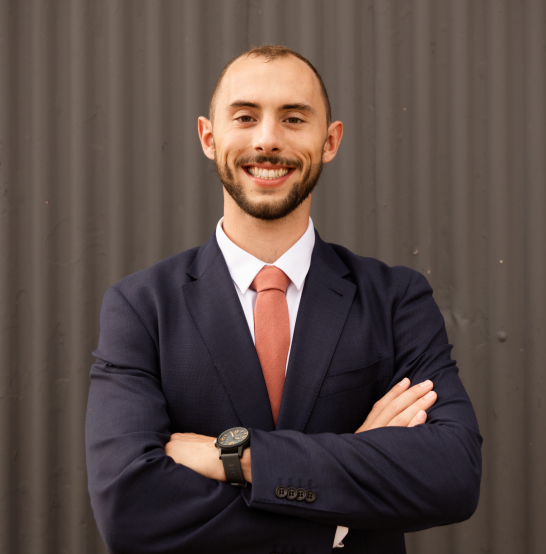
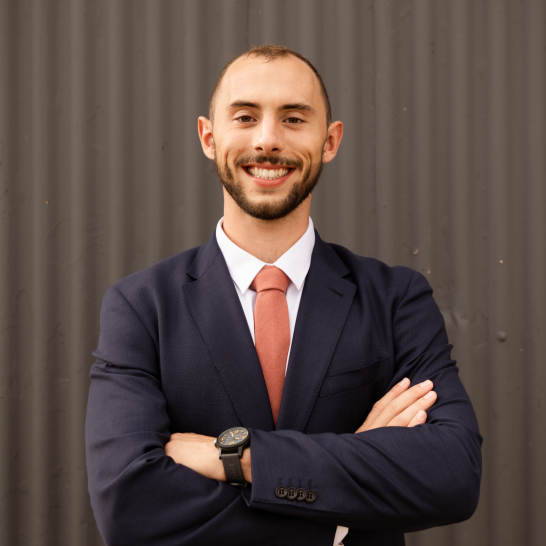
clean homepage

diff --git a/home.css b/home.css
@@ -6,111 +6,34 @@
     --accent-one: #767e2b;
     --neutral: #ede7d2;
     --dark-neutral: #06213e;
-    /* --main-one: #f9ad3e;
-    --main-two: #f37457;
-    --accent-one: #a3bf8f;
-    --accent-two: #79bfbf;
-    --neutral: #ffedd5;
-    --dark-neutral: #3c2416; */
-
-    /* --first-color: #800020; */
-    /* --first-color: #bf6059; */
-    /* --second-color:  #ffc857; */
-    /* --second-color:  #FBC00D; */
-    /* --third-color: #f3eff5; */
-    /* --fourth-color: #BE8901;
-    --fifth-color: #414141; */
-    --heading-color: #000000;
-    --white-color: #f5f5f5;
 }
-/* :root {
-    --first-color: #9b000a;
-    --first-color-light: rgba(155, 0, 10, 0.7);
-    --second-color:  rgba(255, 168, 0, 0.9);
-    --second-color-light: rgba(255, 168, 0, 0.6);
-    --background-color: #f3efd0;
-    --third-color: #730000;
-    --heading-color: #000000;
-    --white-color: #f5f5f5;
-} */
 
-/* @font-face {
-    font-family: Oswald;
-    src: url('fonts/static/Oswald-Regular.ttf');
-} */
 @font-face {
     font-family: raleway;
     src: url('fonts/Raleway-VariableFont_wght.ttf');
 }
 .h1{
-    color: var(--first-color);
+    color: var(--main-two);
     font-size: 30pt;
     font-family: 'raleway';
 }
 .h2{
-    color: var(--heading-gray)
+    color: var(--accent-one)
 }
 .h3{
-    color: var(--heading-gray)
+    color: var(--dark-neutral)
 }
 body{
     font-family: 'raleway', sans-serif;
     background-color: var(--white-color);
 }
 .header_title{
-    /* color: var(--fifth-color); */
-    /* color: var(--fifth-color); */
-    /* color: var(--heading-color); */
-    /* color: var(--dark-neutral); */
-    color: var(--main-one);
+    color: var(--accent-one);
     text-align: left;
     margin-right: 200px;
     font-size: 18pt;
     text-decoration: none;
-    font-weight: 700;
-}
-.nav_bar{
-    font-family: 'raleway';
-    display: flex;
-    padding-top: 0;
-    margin-top: 0;
-    justify-content: center;
-    align-items: center;
-    border-bottom: 1px solid var(--heading-color);
-    /* background-color: var(--white-color); */
-    background-color: var(--third-color);
-}
-.nav_container{
-    display: flex;
-    justify-content: space-between;
-    align-items: center;
-    width: 100%;
-    max-width: 1100px;
-    margin-left: 100px;
-    margin-right: 100px;
-}
-.nav_list{
-    font-family: 'raleway';
-    width: 500px;
-    display: flex;
-    list-style-type: none;
-    justify-content: space-between;
-    
-}
-.nav_list_item{
-    text-decoration: none;
-    text-align: center;
-    display: flex;
-    width: 10%;
-    
-}
-.nav_item{
-    text-align: center;
-    text-decoration: none;
-    /* margin-right: 20px; */
-    font-weight: bold;
-    font-size: 14pt;
-    color: var(--heading-color);
+    font-weight: 650;
 }
 .home_intro{
     font-family: 'raleway';
@@ -133,13 +56,12 @@ body{
     font-size: 16pt;
     font-weight: 600;
     color: var(--dark-neutral);
-    /* color: var(--third-color); */
 }
 .home__img{
-    /* width: 200px; */
-    /* height: 10%; */
-    /* width: 25%; */
-    height: 400px;
+    width: 35%;
+    aspect-ratio: 1/1;
+    max-width: 400px;
+    
     /* max-width: 500px; */
     border-radius: 50%;
     overflow: clip;
@@ -149,14 +71,11 @@ body{
 }
 .about_button{
     background-color: var(--accent-one);
-    /* background-color: var(--main-one); */
-    /* color: var(--dark-neutral); */
     color: var(--neutral);
     display: inline-block;
-    padding: 15px;
+    padding: 13px;
     border-radius: 10px;
     border: none;
-    /* color: var(--white-color); */
     text-decoration: none;
     font-weight: 500;
     font-size: 20px;
@@ -178,29 +97,20 @@ body{
     border-radius: 40px;
 }
 #story{
-    /* background-color: var(--main-one); */
-    /* color: var(--third-color); */
     background-color: var(--neutral);
 }
-#story_title{
-    color: var(--main-two)
-}
+
 #work{
     background-color: var(--main-one);
-    /* background-color: var(--accent-one); */
-    /* color: var(--neutral) */
-}
-#work_title{
-    color: var(--dark-neutral)
 }
 .home_history_title{
     margin-top: 20px;
     font-size: 30pt;
     margin-bottom: 20px;
+    color: var(--main-two)
 }
 .history_section{
     display: flex;
-    
 }
 .home_history_story{
     width: 400px;
@@ -220,15 +130,14 @@ body{
     font-family: 'raleway';
     display: flex;
     justify-content: center;
-    /* align-items: center; */
 }
 .home_website_links a{
     width: 18%;
     max-width: 300px;
+    min-width: 250px;
     height: 28%;
     margin-left: 50px;
     margin-right: 50px;
-    /* display: inline-block; */
     display: flex;
     flex-direction: column;
     padding: 10px;
@@ -236,39 +145,24 @@ body{
     border: none;
     text-decoration: none;
     justify-content: center;
-    /* opacity: 0.6; */
     
 }
-.home_link_block1{
-    /* background-color: var(--first-color-light); */
+.home_link_block{
     background-color: var(--main-one);
-    /* color: var(--main-two) */
 }
-.home_link_block2{
-    /* background-color: var(--second-color); */
-    background-color: var(--main-one);
-    /* background-color: var(--first-color); */
-}
-.home_link_block3{
-    background-color: var(--main-one);
-    /* background-color: var(--first-color); */
-}
+
 .home_block_title{
     text-decoration: none;
     text-align: center;
-    /* color: var(--third-color); */
-    /* color: var(--third-color); */
     margin-bottom: 20px;
     opacity: 1;
     font-size: 16pt;
     color: var(--dark-neutral);
 }
 .home_block_description{
-    color: var(--accent-one);
-    /* color: var(--main-two); */
+    color: var(--main-two);
     opacity: 1;
     text-align: center;
-    /* color: #000000; */
     display: flex;
     font-size: large;
 }
@@ -276,6 +170,7 @@ body{
     margin-top: 50px;
     display: flex;
     justify-content: center;
+    
 }
 
 

diff --git a/index.html b/index.html
@@ -4,9 +4,7 @@
     <meta charset="UTF-8">
     <title>Home</title>
     <link href="home.css" rel="stylesheet">
-    <!-- <link rel="preconnect" href="https://fonts.googleapis.com">
-    <link rel="preconnect" href="https://fonts.gstatic.com" crossorigin>
-    <link href="https://fonts.googleapis.com/css2?family=Oswald&display=swap" rel="stylesheet"> -->
+    <link href="nav.css" rel="stylesheet">
 </head>
 
 <nav class="nav_bar">
@@ -32,8 +30,6 @@
                 
                 <p>I enjoy learning new things, good conversations, spending time at home and working in the garden.</p>
 
-                <!-- <p>I have worked with deep reinforcement learning for robotics and currently I am studying machine learning applications for South Africa.</p> -->
-                
                 <br>
             
             <a class="about_button" href="/about">More about me</a>
@@ -49,17 +45,17 @@
 </section>
 
 <section class="home_website_links">
-        <a class="home_link_block1" href="/research" >
+        <a class="home_link_block" href="/research" >
             <h3 class="home_block_title">Research</h3>
             <p class="home_block_description">Find out more about the research I have done</p>
         </a>
-        <a class="home_link_block2" href="/resources">
+        <a class="home_link_block" href="/resources">
             <h3 class="home_block_title">Resources</h3>
             <p class="home_block_description">Find the work I have done and documents I have written</p>
         </a>
-        <a class="home_link_block3" href="/history">
-            <h3 class="home_block_title">Professional history</h3>
-            <p class="home_block_description">Find out what I have done in my professional life</p>
+        <a class="home_link_block" href="/history">
+            <h3 class="home_block_title">Professional History</h3>
+            <p class="home_block_description">Find out about what I have done in my professional life</p>
         </a>
 
 

diff --git a/nav.css b/nav.css
@@ -1,0 +1,42 @@
+
+.nav_bar{
+    font-family: 'raleway';
+    display: flex;
+    padding-top: 0;
+    margin-top: 0;
+    justify-content: center;
+    align-items: center;
+    border-bottom: 2px solid var(--dark-neutral);
+    background-color: var(--third-color);
+}
+.nav_container{
+    display: flex;
+    justify-content: space-between;
+    align-items: center;
+    width: 100%;
+    max-width: 1100px;
+    margin-left: 100px;
+    margin-right: 100px;
+}
+.nav_list{
+    font-family: 'raleway';
+    width: 500px;
+    display: flex;
+    list-style-type: none;
+    justify-content: space-between;
+    
+}
+.nav_list_item{
+    text-decoration: none;
+    text-align: center;
+    display: flex;
+    width: 10%;
+    
+}
+.nav_item{
+    text-align: center;
+    text-decoration: none;
+    font-weight: bold;
+    font-size: 14pt;
+    color: var(--dark-neutral);
+}
